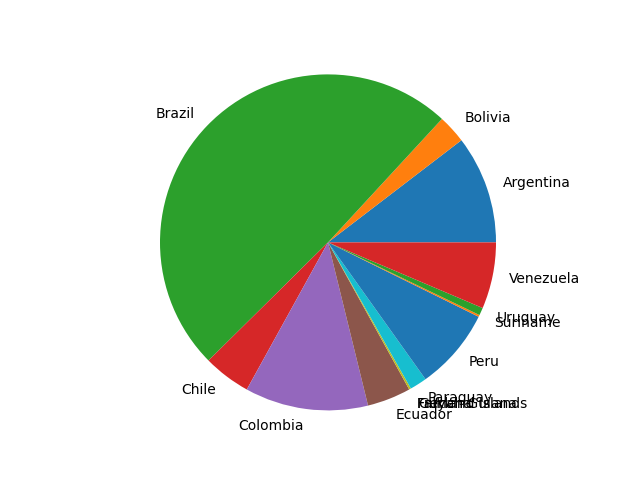
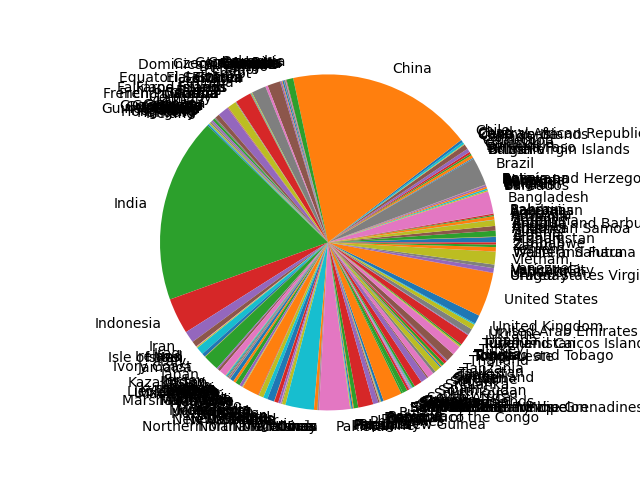
Clase: Pandas

diff --git a/app/main2.py b/app/main2.py
@@ -1,20 +1,22 @@
 import utils
 import read_csv
 import charts
+import pandas as pd
 
 def run():
   '''
-  Código para generar el pie chart sin usar pandas.
+  Código para generar el pie chart usando Pandas.
   '''
 
+  df = pd.read_csv('data.csv')
+  df2 = df[df['Continent'] == 'Africa']
+
+  countries = df['Country'].values
+  percentages = df['World Population Percentage'].values
+  charts.generate_pie_chart(countries, percentages)
+  
+
   data = read_csv.read_csv('data.csv')
-  data = list(filter(lambda item : item['Continent'] == 'South America',data)) 
-  # Filtramos por la columna 'Continent' y de ahí, 'South America'.
-  
-  countries = list(map(lambda x: x['Country'], data)) # Traemos la información de todos los países.
-  percentages = list(map(lambda x: x['World Population Percentage'], data))  
-  charts.generate_pie_chart(countries, percentages) # Traemos los porcentajes para realizar un 'Chart_pie'.
-  
   country = input('Type Country => ')
   print(country)
 
